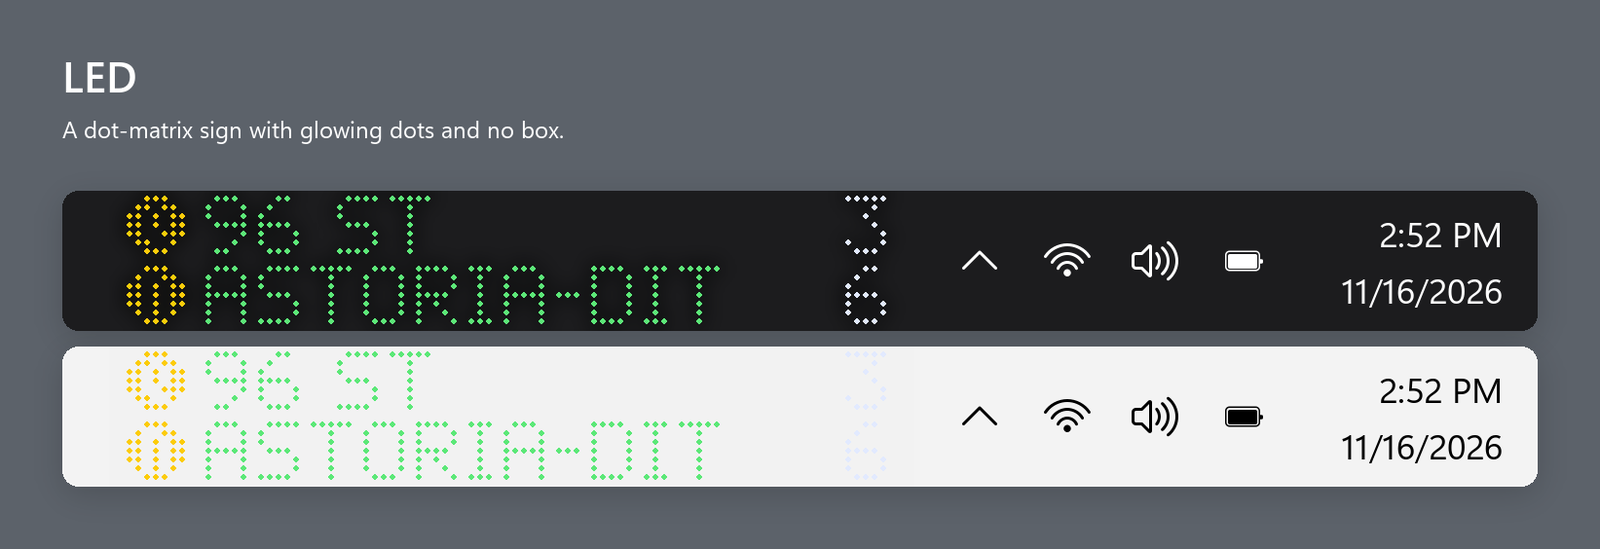
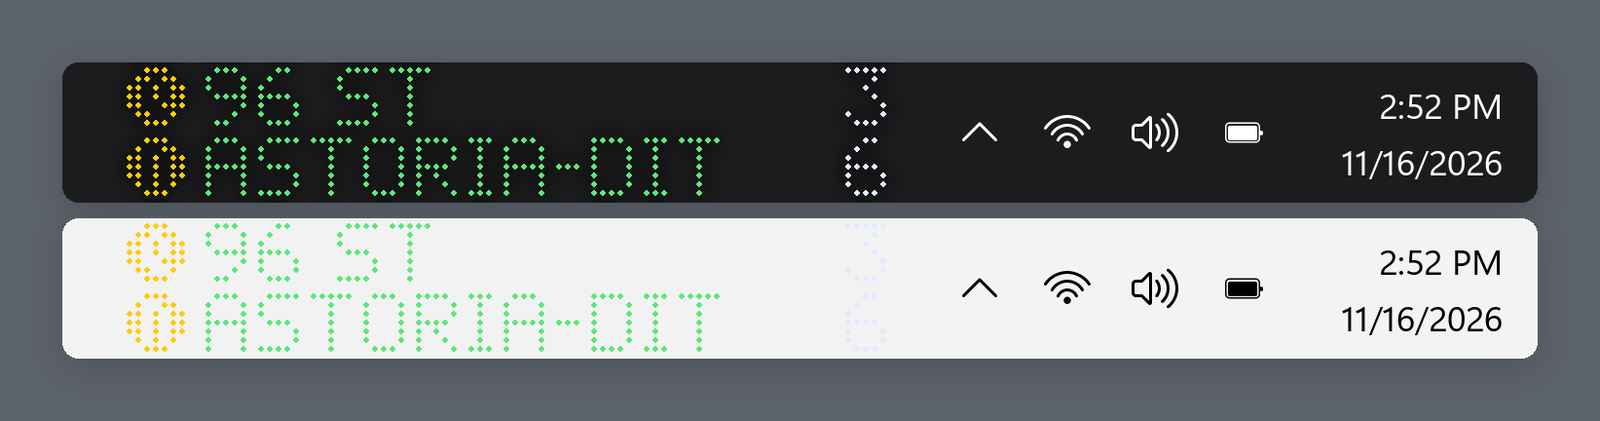
Theme images: taskbars only, no repeated titles or captions

diff --git a/tools/render_theme_images.py b/tools/render_theme_images.py
@@ -25,8 +25,6 @@ BW = W - 120   # visible bar width
 ROWS = [("Q", "96 St", 3, False), ("N", "Astoria-Ditmars Blvd", 6, False),
         ("R", "Forest Hills-71 Av", 9, False), ("W", "Astoria-Ditmars Blvd", 14, False)]
 ICONS = ImageFont.truetype("C:/Windows/Fonts/SegoeIcons.ttf", 16 * S)
-TITLE = tb.font("Semibold", 44)
-CAPTION = tb.font("Regular", 24)
 
 
 def wallpaper(w, h):
@@ -63,21 +61,15 @@ def taskbar(theme, light, BW):
     return bar
 
 
-def card(theme, label, caption):
+def card(theme):
+    """The dark and the light taskbar, nothing else: the README names and describes each theme."""
     tb._theme_cache[:] = [1e18, False]
-    # 8 px grid. Proximity: title and caption are one unit (16 apart); the two bars are
-    # one unit (16 apart); the units are separated by 48; one 64 margin on every side.
-    M, U = 64, 8
+    M, U = 64, 8  # 8 px grid, one 64 margin on every side, the two bars 16 apart
     BW = max(W - 2 * M, PADL + widget_for(theme).width + TRAY)
     W_ = BW + 2 * M
-    title_top = M
-    cap_top = title_top + TITLE.size + 2 * U
-    top = cap_top + CAPTION.size + 6 * U
+    top = M
     h = top + BAR * 2 + 2 * U + M
     img = wallpaper(W_, h).convert("RGBA")
-    d = ImageDraw.Draw(img)
-    d.text((M, title_top), label, font=TITLE, fill=(255, 255, 255), anchor="lt")
-    d.text((M, cap_top), caption, font=CAPTION, fill=(255, 255, 255, 200), anchor="lt")
     for i, light in enumerate((False, True)):
         y = top + i * (BAR + 2 * U)
         bar = taskbar(theme, light, BW)
@@ -91,12 +83,7 @@ def card(theme, label, caption):
     return img if W_ == W else img.resize((W, round(h * W / W_)), Image.LANCZOS)
 
 
-THEMES = {
-    "countdown": ("Countdown", "One train at a time, full size, sliding to the next. The default."),
-    "clock": ("Clock", "Two quiet lines, set like the taskbar clock."),
-    "led": ("LED", "A dot-matrix sign with glowing dots and no box."),
-    "minimal": ("Minimal", "Only the bullet and the minutes."),
-}
-for code, (label, caption) in THEMES.items():
-    card(code, label, caption).save(OUT / f"theme-{code}.png", optimize=True)
+THEMES = ["countdown", "clock", "led", "minimal"]
+for code in THEMES:
+    card(code).save(OUT / f"theme-{code}.png", optimize=True)
 print("RESULT", ", ".join(f"theme-{c}.png" for c in THEMES))

diff --git a/CONTRIBUTING.md b/CONTRIBUTING.md
@@ -24,6 +24,8 @@ CI runs both on Windows with Python 3.10 and 3.13. The tests need no network and
 
 For visual changes, run the widget and look at it on a dark and a light taskbar, and at 100% and 150% display scaling if you can.
 
+The README theme images come from the app's own drawing code. After a visual change, make them again with `python tools/render_theme_images.py trainbar.pyw docs`.
+
 ## How the code is laid out
 
 `trainbar.pyw`, top to bottom:

diff --git a/README.md b/README.md
@@ -40,8 +40,6 @@ Only the line bullet and the minutes, small and close together.
 
 ![Minimal theme](docs/theme-minimal.png)
 
-The theme images are drawn by the app's own code; run `python tools/render_theme_images.py trainbar.pyw docs` to make them again.
-
 Express trains (such as the 6 and 7 express) get a diamond instead of a circle.
 
 ## Settings
